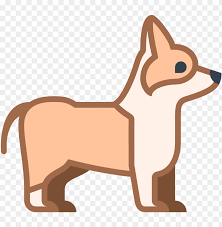
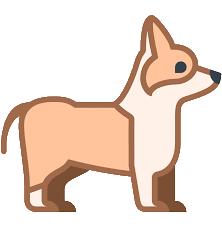
cleaned up pngs and lowered dancer placement randomness by 10% so they stay on page

diff --git a/styles.css b/styles.css
@@ -2,8 +2,12 @@ body, html{
   height:100%;
 }
 body{
-  margin: 0px;
-  background-color:#444;
+  background-image: url("assets/pngs/discobackground.png");
+  height: 100%;
+  width: 100%;
+
+  /* margin: 0px;
+  background-color:#444; */
   font-size: 18px;
 }
 body, a:link, a:visited, a:active{
@@ -21,14 +25,22 @@ body, a:link, a:visited, a:active{
   background-color: #777;
 }
 .dancer{
-  border:10px solid red;
-  border-radius:10px;
+
+
   position:absolute;
+  background-color: transparent;
 }
 
 .BlinkyDancer{
-  /* border:10px solid red;
-  border-radius:10px; */
+
+
+  background-color: transparent;
+  content:url("assets/pngs/corgi2.png");
   position:absolute;
-  content: src("assets/pngs/corgi2.png")
+}
+
+.BouncyDancer{
+  position:absolute;
+
+  content:url("assets/pngs/shibainu.png");
 }

diff --git a/dancefloor.html b/dancefloor.html
@@ -12,7 +12,7 @@
     <div class="topbar">
       <span class="title">object dance party</span>
       <a href="#" class="addDancerButton" data-dancer-maker-function-name="makeBlinkyDancer">add a blinky dancer</a>    </div>
-      <a href="#" class="addBouncyDancerButton" data-dancer-maker-function-name="makeBouncyDancer">add a bouncy dancer</a>    </div>
+      <a href="#" class="addDancerButton" data-dancer-maker-function-name="makeBouncyDancer">add a bouncy dancer</a>    </div>
     <script src="src/init.js"></script>
   </body>
 </html>

diff --git a/src/init.js b/src/init.js
@@ -24,13 +24,14 @@ $(document).ready(function() {
     // make a dancer with a random position
 
     var dancer = new dancerMakerFunction(
-      $("body").height() * Math.random(),
-      $("body").width() * Math.random(),
+      $("body").height() * Math.random() * .90,
+      $("body").width() * Math.random() * .90,
       Math.random() * 1000
     );
 
 
     $('body').append(dancer.$node);
+    console.log(window.dancers);
   });
 });
 

diff --git a/src/blinkyDancer.js b/src/blinkyDancer.js
@@ -21,8 +21,9 @@
 
 var makeBlinkyDancer = function (top, left, timebetweenSteps) {
   makeDancer.call(this, top, left, timebetweenSteps);
-  this.$node = $('<img class="BlinkyDancer" src = "assets/pngs/corgi2.png"</img>');
-  // this.$node.attr('src', 'assets/pngs/corgi2.png');
+
+  this.$node.addClass('BlinkyDancer');
+  
 
   this.setPosition(top, left);
 };
